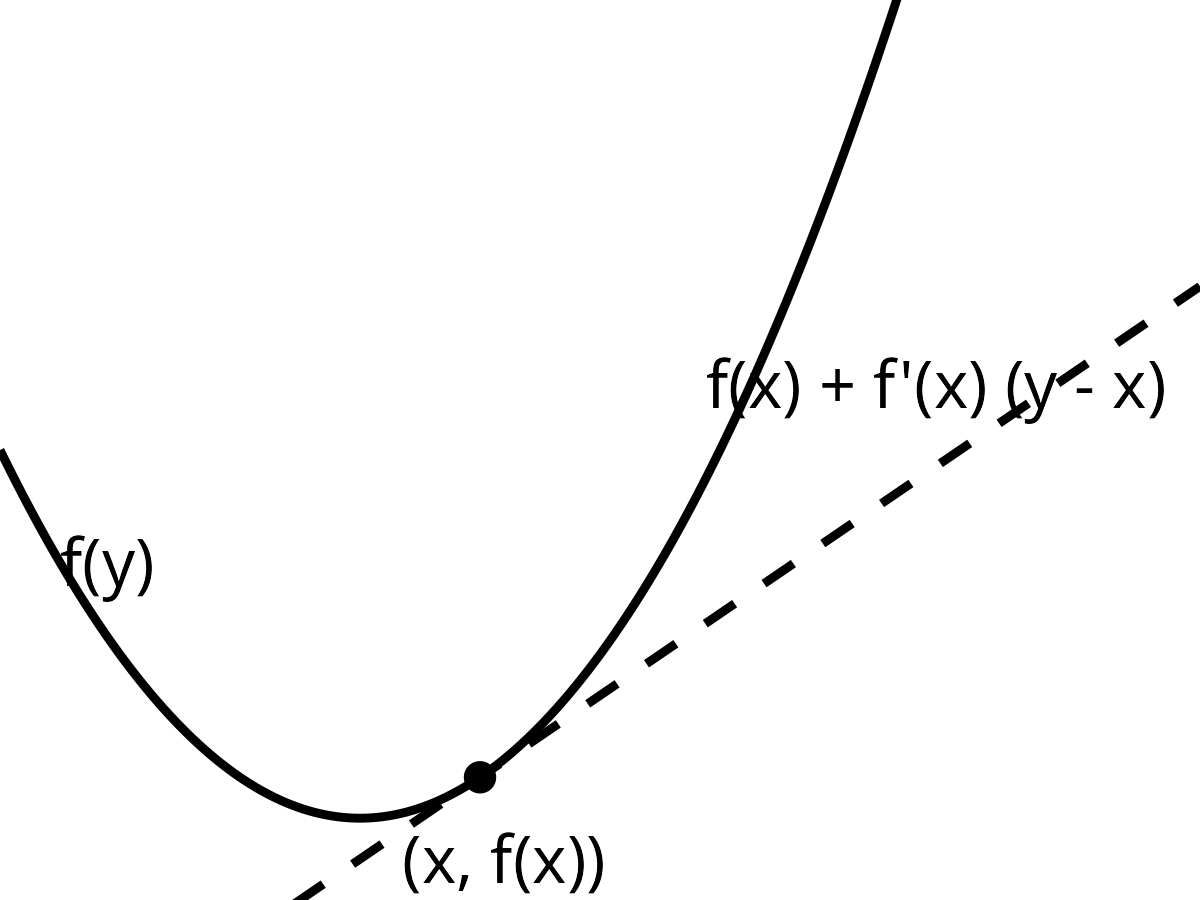
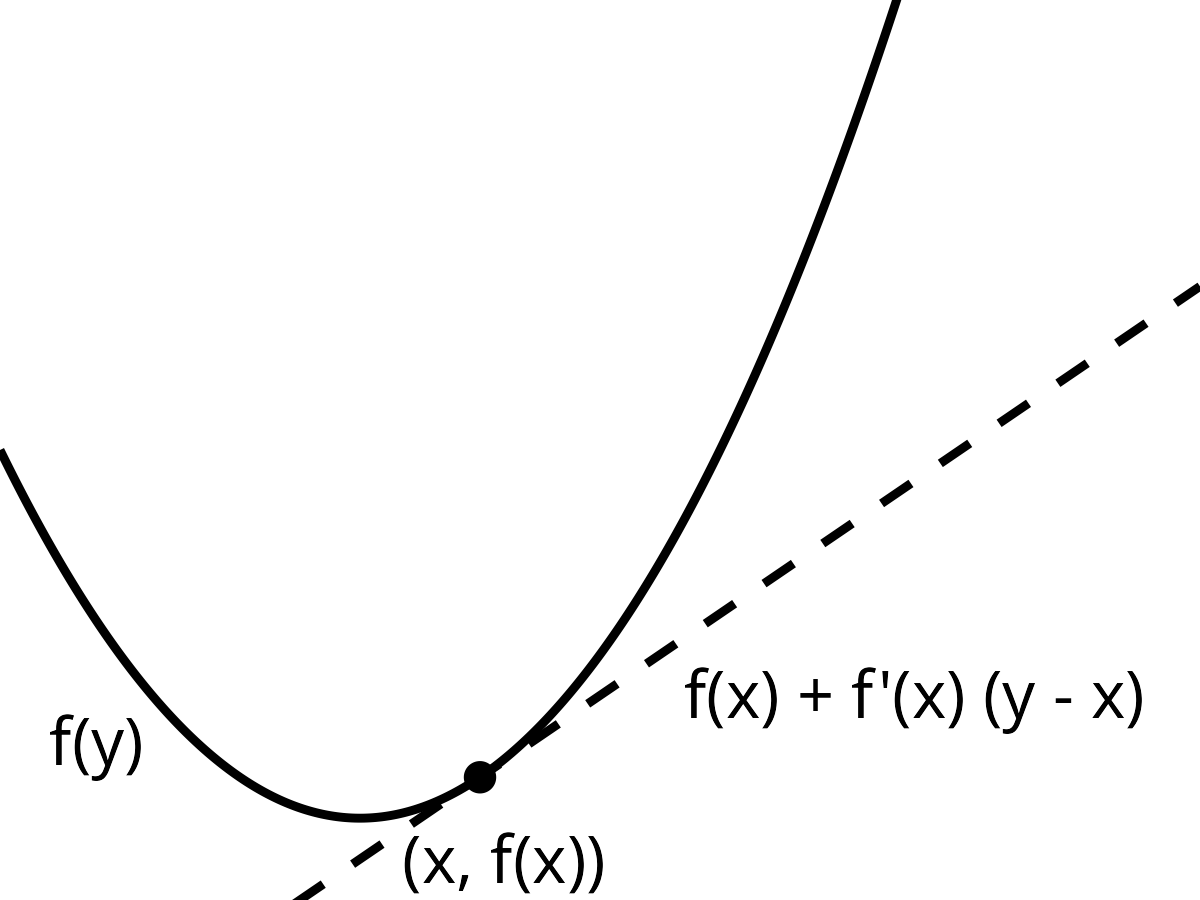
Fixes

diff --git a/slides/04-multivariate-first-order/slides-multivar-first-order-12-comparison.tex b/slides/04-multivariate-first-order/slides-multivar-first-order-12-comparison.tex
@@ -36,8 +36,8 @@ figure_man/linesearch.png
 
 \begin{framei}[fs=small]{Lin-Reg (GD + med step size, default case)}
 \item GD with medium $\alpha=2\cdot10^{-3}$ and indep. features:
-\imageC[0.7]{figure/simu_linmod/GD_reg_med_lr_iters.pdf}
-\imageC[0.75]{figure/simu_linmod/GD_reg_coef_med.pdf}
+\imageC[0.7]{figure/simu-linmods/GD_reg_med_lr_iters.pdf}
+\imageC[0.75]{figure/simu-linmods/GD_reg_coef_med.pdf}
 \item Irreducible error due to additive noise is $\sigma=1$. Dotted lines indicate global minimizers
 \item All variants converge to global min. \textbf{Momentum} accelerates optimization and \textbf{decay} slows down optimization under that step size
 \end{framei}
@@ -45,8 +45,8 @@ figure_man/linesearch.png
 
 \begin{framei}[fs=footnotesize]{Lin-Reg (GD + corr. features)}
 \item GD with medium $\alpha=2\cdot10^{-3}$ and bad conditioning (corr. features):
-\imageC[0.7]{figure/simu_linmod/GD_reg_med_lr_corr_iters.pdf}
-\imageC[0.75]{figure/simu_linmod/GD_reg_coef_med_corr.pdf}
+\imageC[0.7]{figure/simu-linmods/GD_reg_med_lr_corr_iters.pdf}
+\imageC[0.75]{figure/simu-linmods/GD_reg_coef_med_corr.pdf}
 \item Irreducible error due to additive noise is $\sigma=1$. Dotted lines indicate global minimizers
 \item Moderately bad \textbf{conditioning slows down optim} severely! Only \textbf{momentum} w/o decay comes close to global min
 \item \textbf{Momentum} causes ``overshooting'' of some coefs. Corr. features cause corr. global minimizers
@@ -55,8 +55,8 @@ figure_man/linesearch.png
 
 \begin{framei}[fs=small]{Lin-Reg (GD + small step size)}
 \item GD with (too small) $\alpha=3\cdot10^{-4}$ and indep. features:
-\imageC[0.7]{figure/simu_linmod/GD_reg_small_lr_iters.pdf}
-\imageC[0.75]{figure/simu_linmod/GD_reg_coef_small.pdf}
+\imageC[0.7]{figure/simu-linmods/GD_reg_small_lr_iters.pdf}
+\imageC[0.75]{figure/simu-linmods/GD_reg_coef_small.pdf}
 \item Irreducible error due to additive noise is $\sigma=1$. Dotted lines indicate global minimizers
 \item Only two \textbf{momentum} variants come close to global min in $t_{\text{max}}=10000$
 \item \textbf{Decay} worsens performance as $\alpha$ was already too low
@@ -65,8 +65,8 @@ figure_man/linesearch.png
 
 \begin{framei}[fs=footnotesize]{Lin-Reg (GD + large step size)}
 \item GD with large $\alpha=1.5$ and indep. features:
-\imageC[0.7]{figure/simu_linmod/GD_reg_large_lr_iters.pdf}
-\imageC[0.75]{figure/simu_linmod/GD_reg_coef_large.pdf}
+\imageC[0.7]{figure/simu-linmods/GD_reg_large_lr_iters.pdf}
+\imageC[0.75]{figure/simu-linmods/GD_reg_coef_large.pdf}
 \item Irreducible error due to additive noise is $\sigma=1$. Dotted lines indicate global minimizers
 \item Super fast convergence in $<20$ steps
 \item \textbf{Decay} here accelerates optim while \textbf{momentum} becomes slow and unstable
@@ -76,8 +76,8 @@ figure_man/linesearch.png
 
 \begin{framei}[fs=small]{Lin-Reg (SGD + med step size)}
 \item SGD with medium $\alpha=2\cdot10^{-3}$ and indep. features:
-\imageC[0.7]{figure/simu_linmod/SGD_reg_med_lr_iters.pdf}
-\imageC[0.75]{figure/simu_linmod/SGD_reg_coef_med.pdf}
+\imageC[0.7]{figure/simu-linmods/SGD_reg_med_lr_iters.pdf}
+\imageC[0.75]{figure/simu-linmods/SGD_reg_coef_med.pdf}
 \item \textbf{Momentum} accelerates optim initially but is eventually outperformed by other variants
 \item \textbf{Momentum+decay} is both fast initially and has small final error
 \item \textbf{Decay} performs best overall but is slowest initially
@@ -86,8 +86,8 @@ figure_man/linesearch.png
 
 \begin{framei}[fs=small]{Lin-Reg (SGD + large step size)}
 \item SGD with large $\alpha=1 \cdot 10^{-2}$ and indep. features:
-\imageC[0.7]{figure/simu_linmod/SGD_reg_large_lr_iters.pdf}
-\imageC[0.75]{figure/simu_linmod/SGD_reg_coef_large.pdf}
+\imageC[0.7]{figure/simu-linmods/SGD_reg_large_lr_iters.pdf}
+\imageC[0.75]{figure/simu-linmods/SGD_reg_coef_large.pdf}
 \item Irreducible error due to additive noise is $\sigma=1$
 \item High variance in SGD dynamics
 \item \textbf{Momentum} becomes unstable while \textbf{decay} (necessary to eliminate noise) performs best and is fastest
@@ -177,8 +177,8 @@ $
 
 \begin{framei}[fs=small]{Log-Reg (GD + med step size)}
 \item GD with medium $\alpha=0.25$ and indep. features:
-\imageC[0.7]{figure/simu_linmod/GD_log_med_lr_iters.pdf}
-\imageC[0.75]{figure/simu_linmod/GD_log_coef_med.pdf}
+\imageC[0.7]{figure/simu-linmods/GD_log_med_lr_iters.pdf}
+\imageC[0.75]{figure/simu-linmods/GD_log_coef_med.pdf}
 \item Dotted lines indicate global minimizers
 \item All variants converge to global min
 \item \textbf{Momentum} accelerates and \textbf{decay} slows down optimization. \textbf{GD+mom} performs best
@@ -187,8 +187,8 @@ $
 
 \begin{framei}[fs=footnotesize]{Log-Reg (GD + corr. features)}
 \item GD with medium $\alpha=0.25$ and bad conditioning (corr. features):
-\imageC[0.7]{figure/simu_linmod/GD_log_med_lr_corr_iters.pdf}
-\imageC[0.75]{figure/simu_linmod/GD_log_coef_med_corr.pdf}
+\imageC[0.7]{figure/simu-linmods/GD_log_med_lr_corr_iters.pdf}
+\imageC[0.75]{figure/simu-linmods/GD_log_coef_med_corr.pdf}
 \item Dotted lines indicate global minimizers
 \item Moderately bad conditioning slows down optim slightly and affects ERM solutions
 \item Only \textbf{momentum w/o decay} converges exactly to global min in $t_{\text{max}}$
@@ -198,8 +198,8 @@ $
 
 \begin{framei}[fs=small]{Log-Reg (SGD + med step size)}
 \item SGD with medium $\alpha=0.03$ and indep. features:
-\imageC[0.7]{figure/simu_linmod/SGD_log_med_lr_iters.pdf}
-\imageC[0.75]{figure/simu_linmod/SGD_log_coef_med.pdf}
+\imageC[0.7]{figure/simu-linmods/SGD_log_med_lr_iters.pdf}
+\imageC[0.75]{figure/simu-linmods/SGD_log_coef_med.pdf}
 \item Under SGD dynamics become more noisy
 \item \textbf{Momentum} accelerates while \textbf{decay} slows down optimization
 \item Only the coefs of \textbf{momentum w/o decay} come close to global minimizers
@@ -208,8 +208,8 @@ $
 
 \begin{framei}[fs=footnotesize]{Log-Reg (SGD + large step size)}
 \item SGD with large $\alpha=0.3$ and indep. features:
-\imageC[0.7]{figure/simu_linmod/SGD_log_large_lr_iters.pdf}
-\imageC[0.75]{figure/simu_linmod/SGD_log_coef_large.pdf}
+\imageC[0.7]{figure/simu-linmods/SGD_log_large_lr_iters.pdf}
+\imageC[0.75]{figure/simu-linmods/SGD_log_coef_large.pdf}
 \item \textbf{High variance} in optim dynamics
 \item Plain SGD and \textbf{Momentum} become unstable and oscillate at suboptimal loss values/diverge while \textbf{decay} (necessary to eliminate oscillations) performs best and is fastest
 \item \textbf{Momentum+decay} initially diverges but recovers once step size reduces (would converge with many more steps)
@@ -228,7 +228,7 @@ $
 
 \begin{framei}[fs=footnotesize]{Classification on MNIST (SGD)}
 \item Mini-batch SGD with $\alpha \in \{0.01, 0.1\}$ for 100 epochs (5000 iterations):
-\imageC[0.8]{figure/simu_mnist/SGD_compar.pdf}
+\imageC[0.8]{figure/simu-mnist/SGD_compar.pdf}
 \item[] \textbf{Observations} (\textcolor{green}{green}/\textcolor{cyan}{cyan} + \textcolor{blue}{blue}/\textcolor{magenta}{purple} train losses overlap but not val. acc.):
 \item \textbf{Momentum} drastically speeds up optimization in all settings
 \item \textbf{Plain SGD}: step size decay slows optimization slightly
@@ -241,7 +241,7 @@ $
 \begin{framei}[fs=small]{Classification on MNIST (GD vs. SGD)}
 \item Why is it not a good idea to use GD in most DL applications? SGD is much faster
 \item Compare runtime of mini-batch SGD (batch size=$100$) with GD (constant $\alpha=0.01$ without momentum for $t_{\text{max}}=5000$ iterations):
-\imageC[0.9]{figure/simu_mnist/SGD_GD_compar.pdf}
+\imageC[0.9]{figure/simu-mnist/SGD_GD_compar.pdf}
 \item[] \textbf{Observations}:
 \item Mini-batch SGD is over an order of magnitude faster
 \item SGD generalizes better than GD despite being much faster

diff --git a/slides/07-derivative-free/slides-derivative-free-4-multistart-optimization.tex b/slides/07-derivative-free/slides-derivative-free-4-multistart-optimization.tex
@@ -4,8 +4,6 @@
 \input{../../latex-math/basic-math}
 \input{../../latex-math/basic-ml}
 
-\usepackage{verbatimbox}
-
 \title{Optimization in Machine Learning}
 
 \begin{document}
@@ -43,7 +41,7 @@ is called \textit{attraction area}/\textit{basin of attraction} of $f_i^*$ for a
 \end{framev}
 
 
-\begin{vbframe}{Multi-starts}
+\begin{frame}[fragile]{Multi-starts}
 Levy function:
 $$f(\xv) = \sin^2(3\pi x_1) + (x_1 - 1)^2 [1 + \sin^2(3\pi x_2)] + (x_2 -1)^2[1 + \sin^2(2\pi x_2)]$$
 \splitVCC{
@@ -59,7 +57,7 @@ Distribution of results ($y$ values):
   ## 0.0000  0.1099     0.5356    2.4351  1.9809     18.3663
 \end{verbatim}
 \comment[NOTE]{BB}{besser hist zeigen... und die ergebnisse der eintelnen runs in 2d. vielleaicht auf anderer funktion wo man auch sieht in wehcle basins man gelaufen ist}
-\end{vbframe}
+\end{frame}
 
 
 \begin{framev}{multi-starts}
@@ -88,37 +86,33 @@ Idea: use multiple starting points $\xv^{[1]}, \ldots, \xv^{[k]}$ for algorithm 
 \end{framev}
 
 
-\begin{vbframe}{multi-starts}
+\begin{frame}[fragile]{multi-starts}
 BFGS with Multistart gives us the true minimum of the Levy function:\\
 \spacer
-\begin{verbbox}
+\begin{verbatim}
 iters = 20 # number of starts
 xbest = c(runif(1, -2, 2), runif(1, -2, 2))
-\end{verbbox}
-\theverbbox
+\end{verbatim}
 \vspace{0.4cm}
-\begin{verbbox}
+\begin{verbatim}
 for (i in 1:iters) {
 x1 = runif(1, -2, 2)
 x2 = runif(1, -2, 2)
 res = optim(par = c(x1, x2), fn = f, method = "BFGS")
 }
-\end{verbbox}
-\theverbbox\\
+\end{verbatim}
 \spacer
-\begin{verbbox}
+\begin{verbatim}
 if (res$value < f(xbest)) {
 xbest = res$par
 }
-\end{verbbox}
-\theverbbox\\
+\end{verbatim}
 \spacer
-\begin{verbbox}
+\begin{verbatim}
 xbest
 ## [1] 1 1
-\end{verbbox}
-\theverbbox
-\end{vbframe}
+\end{verbatim}
+\end{frame}
 
 \endlecture
 \end{document}

diff --git a/slides/01-foundations/01-diff.tex b/slides/01-foundations/01-diff.tex
@@ -235,9 +235,9 @@ $$
 and thus $\lambda_1=4, \lambda_2=1$, $\bm{v}_1=(0, 1)^T$, and $\bm{v}_2=(1, 0)^T$.
 \vfill
 \splitV{
-\imageC[0.76]{figure/hessian_3d.png}
+\imageC[0.76]{figure_man/hessian_3d.png}
 }{
-\imageC[0.76]{figure/hessian_contour.png}
+\imageC[0.76]{figure_man/hessian_contour.png}
 }
 \end{framev}
 

diff --git a/slides/05-multivariate-second-order/slides-multivar-second-order-5-comparison.tex b/slides/05-multivariate-second-order/slides-multivar-second-order-5-comparison.tex
@@ -54,8 +54,8 @@ $$
 
 \begin{framei}{Logistic Regression (GD variants recap)}
 \item Recall comparison of GD variants on log. reg. in last chapter:
-\imageC[0.8]{../04-multivariate-first-order/figure/simu_linmod/GD_log_med_lr_iters.pdf}
-\imageC[0.8]{../04-multivariate-first-order/figure/simu_linmod/GD_log_coef_med.pdf}
+\imageC[0.8]{../04-multivariate-first-order/figure/simu-linmods/GD_log_med_lr_iters.pdf}
+\imageC[0.8]{../04-multivariate-first-order/figure/simu-linmods/GD_log_coef_med.pdf}
 {\footnotesize Dotted lines indicate global minimizers.}
 \item \textbf{GD+momentum} was fastest $\Rightarrow$ now compare w/ Newton-Raphson
 \item \textbf{NB}: GD+momentum only converges after several thousand steps